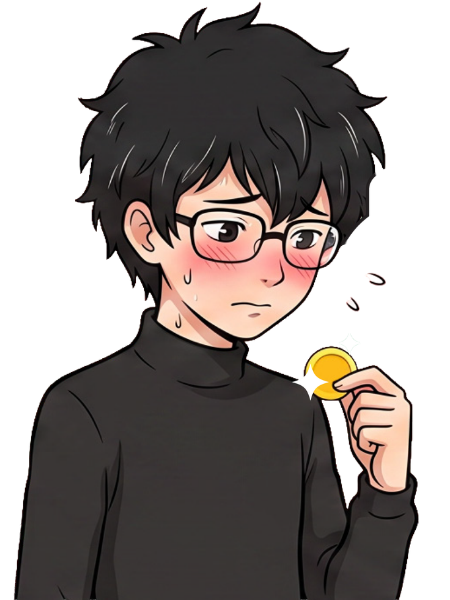
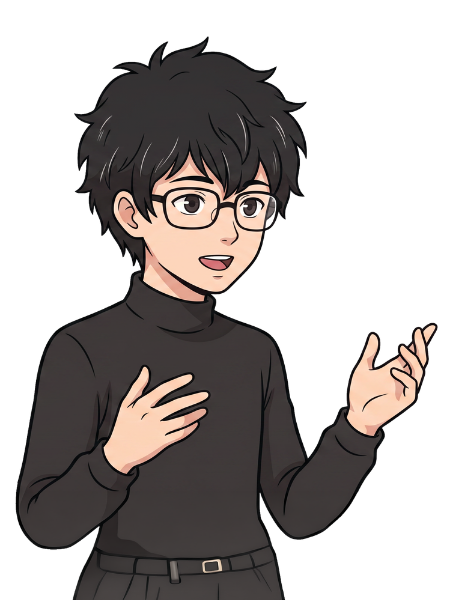
Rect class added with quick collision method

diff --git a/src/handlers/ui_handler.js b/src/handlers/ui_handler.js
@@ -1,34 +1,62 @@
 import { GAME_WIDTH, GAME_HEIGHT, Commands } from '../../src/constants.js'
-import { StaticObject } from '../objects/static_object.js'
+import { StaticObject, Rect } from '../objects/static_object.js'
 import { DynamicObject } from '../objects/dynamic_object.js'
 
 export class UiHandler{
     constructor(){
+        this.scale = {x:1.0, y:1.0};
+        this.rectangles = [];
         this.staticObjects = [];
         this.dynamicObjects = [];
-        this.selectedFood = false;
-
-        this.scale = {x:1.0, y:1.0};
     }
     
     init(assets){
+        this.initStaticObjects(assets);
+        this.initDynamicObjects(assets);
+        this.initRectangles();
+    }
+
+    update(mousePos, scale, deltaTime){
+        if(this.scale !== scale){
+            this.scale = {...scale};
+        }
+        for(let i = 0; i < this.dynamicObjects.length; i++){
+            this.dynamicObjects[i].update(mousePos, scale, deltaTime);
+        }
+        for(let i = 0; i < this.staticObjects.length; i++){
+            this.staticObjects[i].update(scale, deltaTime);
+        }
+        for(let i = 0; i < this.rectangles.length; i++){
+            this.rectangles[i].update(scale, deltaTime);
+        }
+    }
+
+    draw(ctx){
+        ctx.fillStyle = "purple";
+        ctx.fillRect(0,0,ctx.canvas.width, ctx.canvas.height);
+        this.staticObjects[0].draw(ctx); // Shelf Texture
+        for(let i = 0; i < this.rectangles.length; i++){ this.rectangles[i].draw(ctx); } // Comic Strip border
+        for(let i = 1; i < this.staticObjects.length; i++){ this.staticObjects[i].draw(ctx); }
+        for(let i = 0; i < this.dynamicObjects.length; i++){ this.dynamicObjects[i].draw(ctx); }
+        
+    }
+
+    initStaticObjects(assets){
         this.staticObjects.push(new StaticObject("background", assets.getAsset('background'), {x:0.0, y:0.0}, {x:1280, y:720}));
 
         let objScale = 0.35;
         let objSize = {x: 300 * objScale, y: 200 * objScale};
         this.staticObjects.push(new StaticObject("money", assets.getAsset('money'), {x:1500,y:150}, objSize));
 
-        objScale = 0.5;
-        objSize = {x: 600 * objScale, y: 600 * objScale};
-        this.staticObjects.push(new StaticObject("sign", assets.getAsset('sign'), {x:1280,y:780},objSize));
-
         objScale = 0.75;
         objSize = {x: 450 * objScale, y: 600 * objScale};
         this.staticObjects.push(new StaticObject("boy", assets.getAsset('boy'), {x:0, y:GAME_HEIGHT - objSize.y}, objSize));
         this.staticObjects.push(new StaticObject("girl", assets.getAsset('girl'), {x:1280 - objSize.x, y:GAME_HEIGHT - objSize.y}, objSize));
+    }
+    initDynamicObjects(assets){
 
-        objScale = 0.5;
-        objSize = {x: 300 * objScale, y: 300 * objScale};
+        const objScale = 0.5;
+        const objSize = {x: 300 * objScale, y: 300 * objScale};
         this.dynamicObjects.push(
             new DynamicObject("chocolateCake", assets.getAsset('chocolatecake'), { x: 250, y: 140 }, objSize),
             new DynamicObject("cupcake",assets.getAsset('cupcakes'),{ x: 468, y: 155 }, objSize),
@@ -40,44 +68,15 @@ export class UiHandler{
             new DynamicObject("tofu",assets.getAsset('tofu'), { x: 925, y: 400 }, objSize)
         );
     }
-
-    update(mousePos, scale, deltaTime){
-
-        if(this.scale !== scale){
-            this.scale = {...scale};
-        }
-
-        for(let i = 0; i < this.dynamicObjects.length; i++){
-            this.dynamicObjects[i].toggleSelect(mousePos);
-            this.dynamicObjects[i].update(mousePos, scale, deltaTime);
-        }
-
-        for(let i = 0; i < this.staticObjects.length; i++){
-            this.staticObjects[i].update(scale, deltaTime);
-        }
-    }
-
-    draw(ctx){
-        ctx.fillStyle = "purple";
-        ctx.fillRect(0,0,ctx.canvas.width, ctx.canvas.height);
-
-        this.staticObjects[0].draw(ctx);
-        this.drawComicStripBorders(ctx);
-        for(let i = 1; i < this.staticObjects.length; i++){ this.staticObjects[i].draw(ctx); }
-        for(let i = 0; i < this.dynamicObjects.length; i++){ this.dynamicObjects[i].draw(ctx); }
-    }
-
-    drawComicStripBorders(ctx){
+    initRectangles(){
         const barWidth = 20.0;
-
-        const vertSize = {x: barWidth, y: ctx.canvas.height};
+        const vertSize = {x: barWidth, y: GAME_HEIGHT};
         const vertPos = {x: this.staticObjects[0].texture.width - (vertSize.x / 2.0), y: 0.0};
         const horizSize = {x: this.staticObjects[0].texture.width, y: barWidth};
         const horizPos = {x: 0.0, y: this.staticObjects[0].texture.height - (horizSize.y / 2.0)};
 
-        ctx.fillStyle = "black";
-
-        ctx.fillRect(vertPos.x * this.scale.x, vertPos.y * this.scale.y, vertSize.x * this.scale.x, vertSize.y);
-        ctx.fillRect(horizPos.x * this.scale.x, horizPos.y * this.scale.y, horizSize.x * this.scale.x, horizSize.y * this.scale.y);
+        this.rectangles.push(new Rect(this.staticObjects[0].texture.width, 0.0, GAME_WIDTH - this.staticObjects[0].texture.width, GAME_HEIGHT, 'white' ))
+        this.rectangles.push(new Rect(vertPos.x, vertPos.y, vertSize.x, vertSize.y, 'black'));
+        this.rectangles.push(new Rect(horizPos.x, horizPos.y, horizSize.x, horizSize.y, 'black'));
     }
 }

diff --git a/src/objects/static_object.js b/src/objects/static_object.js
@@ -1,14 +1,12 @@
 export class StaticObject{
     constructor(name, texture, pos, size){
+        this.scale = {x:1.0,y:1.0};
         this.name = name;
         this.texture = texture;
         this.pos = {...pos};
         this.size = {...size};
-
         this.cachedPos = {...pos};
         this.cachedSize = {...size};
-
-        this.scale = {x:1.0,y:1.0};
     }
 
     update(scale, deltaTime){
@@ -27,5 +25,42 @@ export class StaticObject{
 
     draw(ctx){
         ctx.drawImage(this.texture, this.pos.x, this.pos.y, this.size.x, this.size.y);
+    }
+}
+
+export class Rect{
+    constructor(x, y, width, height, color){
+        this.scale = {x:1.0,y:1.0},
+
+        this.pos = {x: x, y: y};
+        this.size = {x: width, y: height};
+
+        this.initialPos = {x: x, y: y};
+        this.initialSize = {x: width, y: height};
+
+        this.color = color;
+    }
+
+    update(scale, deltaTime){
+        if(this.scale !== scale){
+            this.scale = {...scale};
+            this.pos = {x:this.initialPos.x * this.scale.x, y:this.initialPos.y * this.scale.y};
+            this.size = {x: this.initialSize.x * this.scale.x, y: this.initialSize.y * this.scale.y};
+        }
+    }
+
+    draw(ctx){
+        ctx.fillStyle = this.color;
+        ctx.fillRect(this.pos.x, this.pos.y, this.size.x, this.size.y);
+    }
+
+    intersects(point){
+        if(point.x >= this.pos.x &&
+            point.x <= this.pos.x + this.size.x &&
+            point.y >= this.pos.y &&
+            point.y <= this.pos.y + this.size.y){
+                return true;
+            }
+            return false;
     }
 }

diff --git a/src/objects/dynamic_object.js b/src/objects/dynamic_object.js
@@ -1,14 +1,12 @@
 export class DynamicObject{
     constructor(name, texture, pos, size){
+        this.scale = {x:1.0,y:1.0};
         this.name = name;
         this.texture = texture;
         this.pos = {...pos};
         this.size = {...size};
-
         this.cachedPos = {...pos};
         this.cachedSize = {...size};
-
-        this.scale = {x:1.0,y:1.0};
         this.initialPos = {...pos};
         this.selected = false;
     }
@@ -25,6 +23,7 @@ export class DynamicObject{
                 y: this.cachedPos.y * this.scale.y
             };
         }
+        this.toggleSelect(mousePos);
         this.move(mousePos);
     }
 
